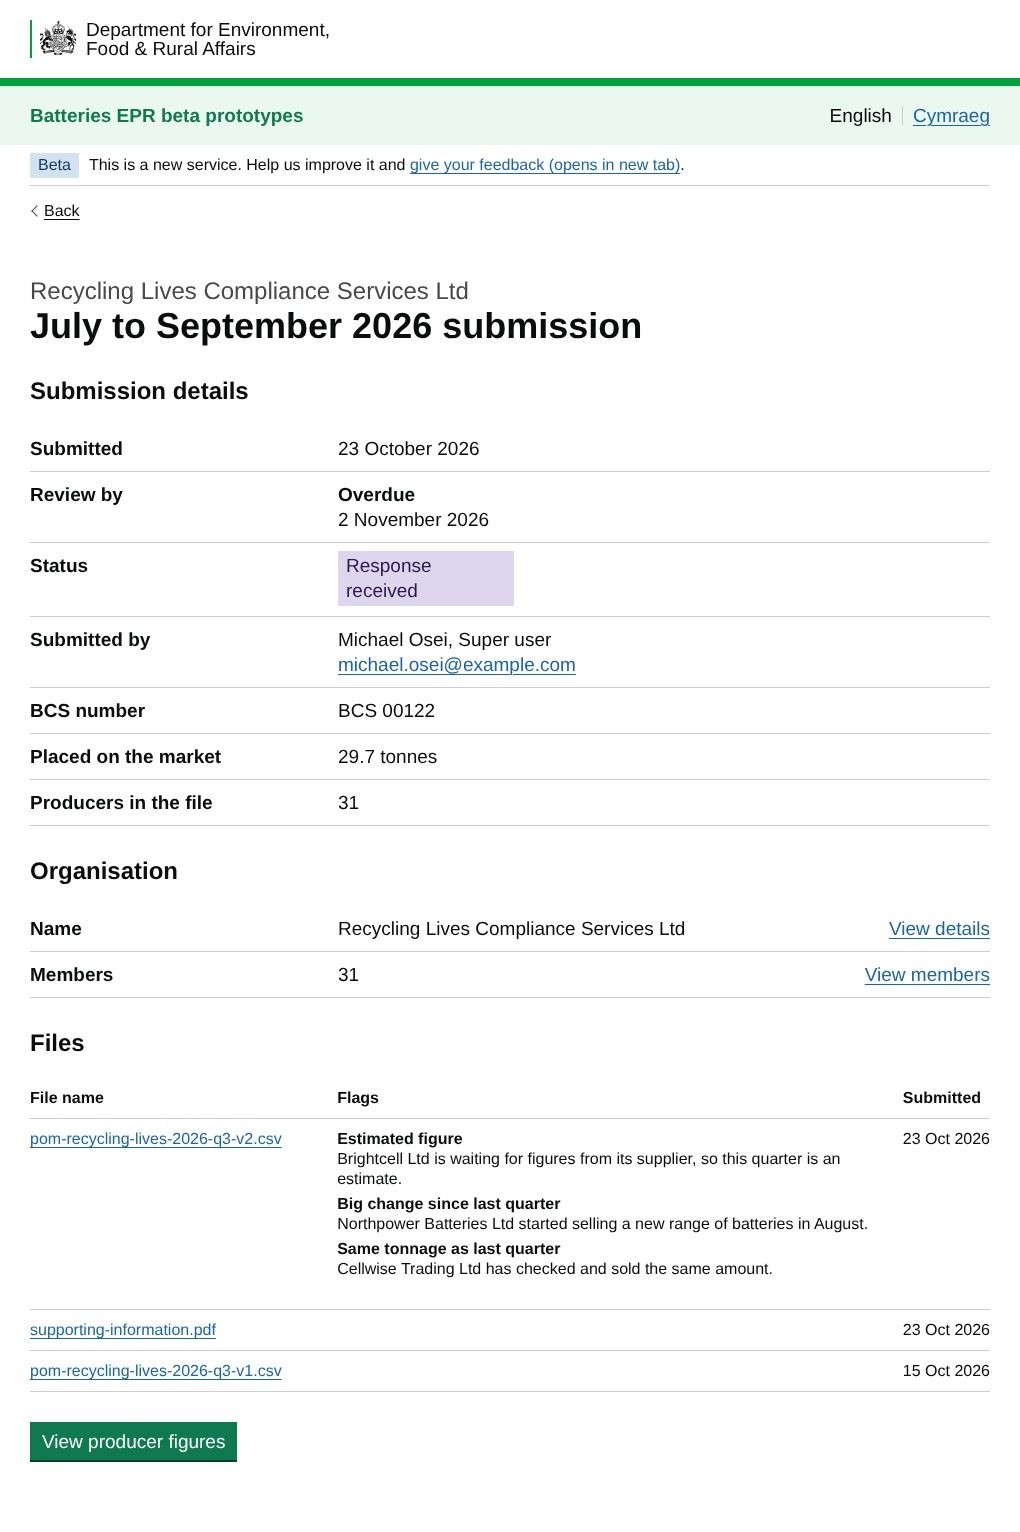
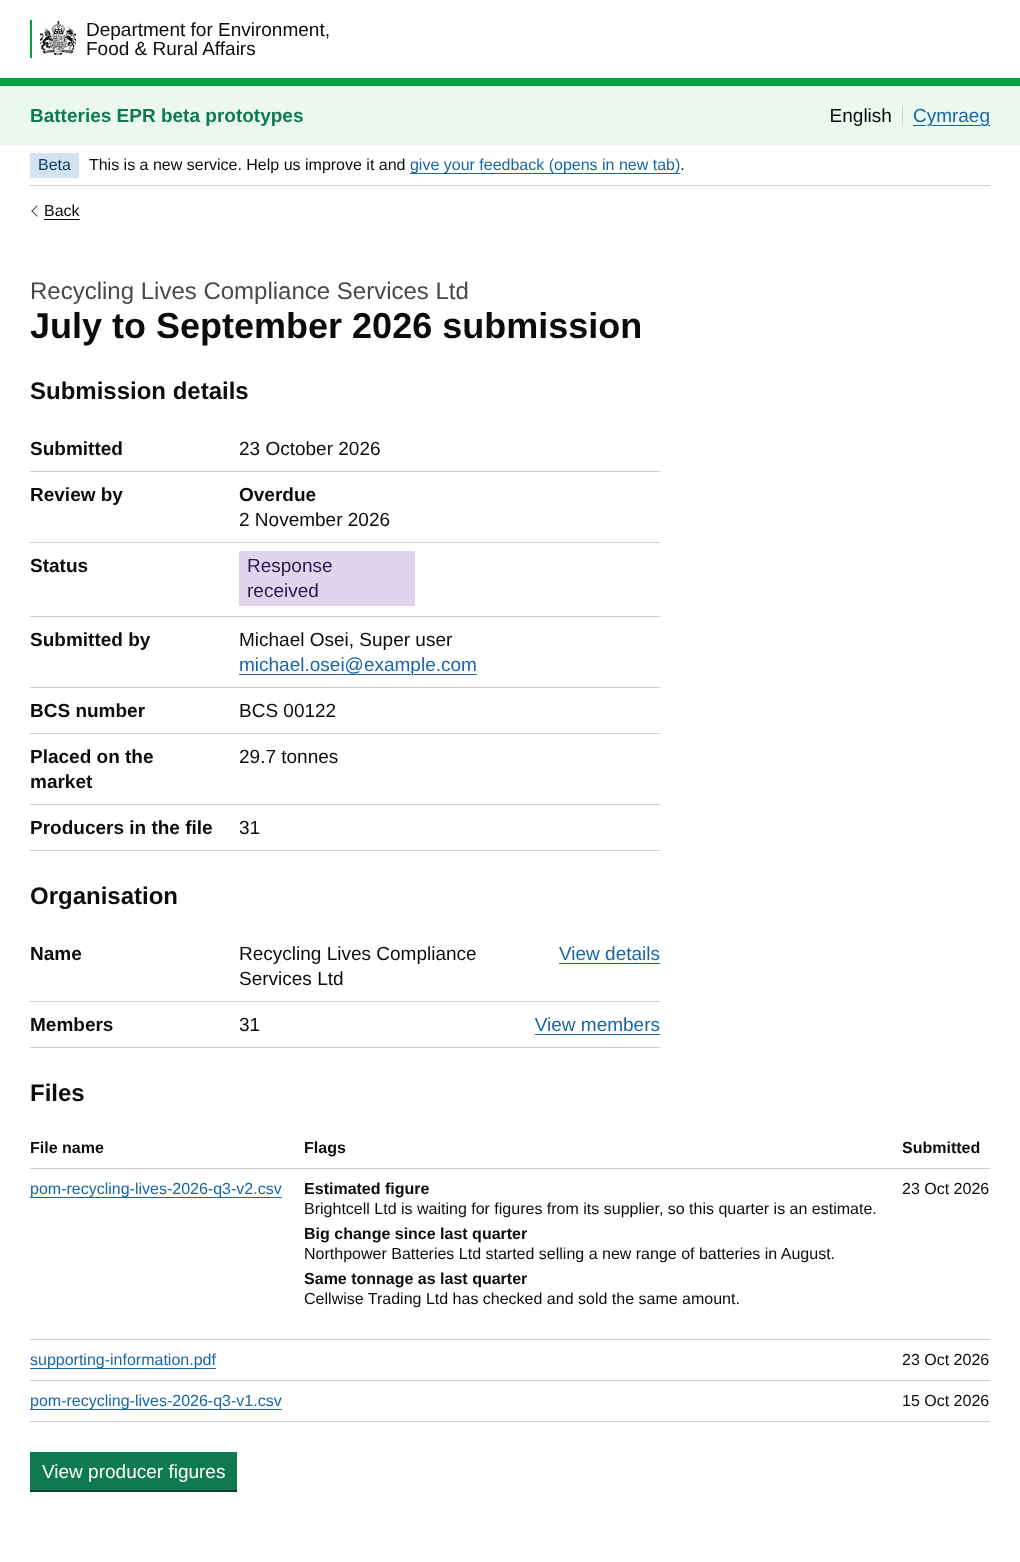
EB-325 full: summary lists back to two-thirds width, as in the brief version; remove the column-lining-up add-on
Claude-Session: https://claude.ai/code/session_014pBrKbgm5Jfdzkw7drhM9g

diff --git a/app/views/changes/add-pom-submission-page.html b/app/views/changes/add-pom-submission-page.html
@@ -20,7 +20,7 @@
 <p class="govuk-body"><strong>Brief version (Marie and Jen)</strong></p>
 <ul class="govuk-list govuk-list--bullet"><li>Submission details: submitted, review by, status, submitted by and the version (&quot;2 of 2&quot;, with a link to earlier versions)</li><li>Files as GOV.UK summary cards, one per file: the file name as the title, with Open and Download, then the flags (just the scheme's reason, which names the producer) and when it was submitted. Cards stack up clearly when there are several files</li><li>Organisation details are view only: no Change links</li><li>People who can submit: just the people not already shown (the appropriate person and admin can always submit), each with their email and &quot;delegated authority&quot;. No list of other users</li><li>&quot;Admin&quot; for the top of the scheme's account</li></ul>
 <p class="govuk-body"><strong>Full version (Rich)</strong></p>
-<ul class="govuk-list govuk-list--bullet"><li>Submission details with Rich's extras: days left, BCS number, tonnage and producers in the file</li><li>Files in one table, full width, in 16px text and the MOJ scrollable pane: the file name (it opens the file, in the same tab for now), the flags (what the flag is in bold, then the scheme's reason), and submitted</li><li>Everything full width, so the labels fit on one line, and the flags line up with the answers in the summary lists above</li><li>Organisation details have Change links, so we can ask the business whether regulators can change them. People who can submit with their emails (if someone's authority has ended, they're not on the list), and other users in a details component</li><li>&quot;Super user&quot; for the top of the scheme's account</li></ul>
+<ul class="govuk-list govuk-list--bullet"><li>Submission details with Rich's extras: days left, BCS number, tonnage and producers in the file</li><li>Files in one table, full width, in 16px text and the MOJ scrollable pane: the file name (it opens the file, in the same tab for now), the flags (what the flag is in bold, then the scheme's reason), and submitted</li><li>Organisation details have Change links, so we can ask the business whether regulators can change them. People who can submit with their emails (if someone's authority has ended, they're not on the list), and other users in a details component</li><li>&quot;Super user&quot; for the top of the scheme's account</li></ul>
 <p class="govuk-body"><strong>Questions</strong></p>
 <ul class="govuk-list govuk-list--bullet"><li>Can regulators change organisation details? (the full version's Change links)</li><li>Who can submit: more to discuss. A return from someone without authority shouldn't get through at all, so that's for the developers, not the page</li></ul>
 <p class="govuk-body"><strong>Prototype only</strong></p>

diff --git a/app/views/regulator/pom-submission/full.html b/app/views/regulator/pom-submission/full.html
@@ -16,12 +16,11 @@
   the scheme's reason under each (the file name opens the file, in the same tab for now),
   then View producer figures. The organisation (details on page 2, and
   members) is a short summary list after the submission details, with View links.
-  Everything is full width, so the labels fit on one line.
+  The summary lists are two-thirds width, as in the brief version.
 
   Add-on: MOJ scrollable pane round the files table, and long text wraps
   (app-table-cell--wrap), so only the table scrolls at small widths.
-  Add-on: the file name column is 30% wide (app-table-header--summary-key), so
-  the flags line up with the submission details above. See the README.
+  See the README.
 
   The data: app/data/pom-submission-details.js (dummy).
   The words: app/content/regulator/pom-submission-full.md
@@ -76,10 +75,8 @@
 {% endfor %}
 
 {% block content %}
-{# Full width, so the summary lists' labels fit on one line and line up
-   with the files table below. No extra styles: it's the GOV.UK grid #}
 <div class="govuk-grid-row">
-  <div class="govuk-grid-column-full">
+  <div class="govuk-grid-column-two-thirds">
 
     <span class="govuk-caption-l">{{ s.scheme }}</span>
     <h1 class="govuk-heading-l">{{ heading }}</h1>
@@ -102,13 +99,21 @@
       }
     ] }) }}
 
+  </div>
+</div>
+
+{# The files table is full width, so the flags have room #}
+<div class="govuk-grid-row">
+  <div class="govuk-grid-column-full">
+
+
     <h2 class="govuk-heading-m">{{ words.filesHeading }}</h2>
     <div class="moj-scrollable-pane" role="region" tabindex="0" aria-label="{{ words.filesTableCaption }}">
       {{ govukTable({
         caption: words.filesTableCaption,
         captionClasses: "govuk-visually-hidden",
         head: [
-          { text: words.fileNameColumn, classes: small + " app-table-cell--wrap app-table-header--summary-key" },
+          { text: words.fileNameColumn, classes: small + " app-table-cell--wrap" },
           { text: words.flagsColumn, classes: small + " app-table-cell--wrap" },
           { text: words.submittedColumn, classes: small }
         ],

diff --git a/app/assets/sass/application.scss b/app/assets/sass/application.scss
@@ -38,21 +38,6 @@ $govuk-font-family-print: var(--app-font-family-print, sans-serif);
   white-space: normal;
 }
 
-// Add-on: a table's first column the same width as a summary list's labels
-// (30%), so the table's second column lines up with the summary list's answers
-// above it. From tablet up only: below that, summary lists stack.
-// WHY: on the full submission page, the flags line up with the submission
-// details above them, which is easier to scan.
-// USE: add this class to the first column's header in the table.
-// FOR DEVELOPERS: build this. It's a design decision, not a prototype shortcut.
-.app-table-header--summary-key {
-  @include govuk-media-query($from: tablet) {
-    // The summary list's labels are 30% wide plus 20px of padding, which is
-    // about 32% at desktop width. (calc() doesn't work on table cell widths.)
-    width: 32%;
-  }
-}
-
 // Add-on: one fix to the MOJ scrollable pane. Visually hidden text inside the
 // table (for example "View submission (Valpak Ltd)") is positioned absolutely,
 // so without this it escapes the pane and makes the whole page scroll sideways

diff --git a/README.md b/README.md
@@ -100,14 +100,6 @@ developers should build, and the ones that only make the prototype work.
 - **Added by:** Marie Moyles, November 2026
 - **To remove:** remove the class from those cells and the style
 
-#### Table column lined up with a summary list
-
-- **What it does:** makes a table's first column 30% wide, the same as a summary list's labels, so the table's second column lines up with the answers in the summary list above. From tablet up only
-- **Why:** on the full submission page, the flags line up with the submission details above them, which is easier to scan
-- **Where:** the `app-table-header--summary-key` style in `app/assets/sass/application.scss`, on the File name header of the full submission page
-- **Added by:** Marie Moyles, November 2026
-- **To remove:** remove the class and the style: the columns then size to their content
-
 #### Filters in a row
 
 - **What it does:** puts filter dropdowns and their button side by side with a fixed 10px gap, wrapping onto a new line when there isn't room. The button lines up with the bottom of the dropdowns. Full width, one under the other, on a phone
